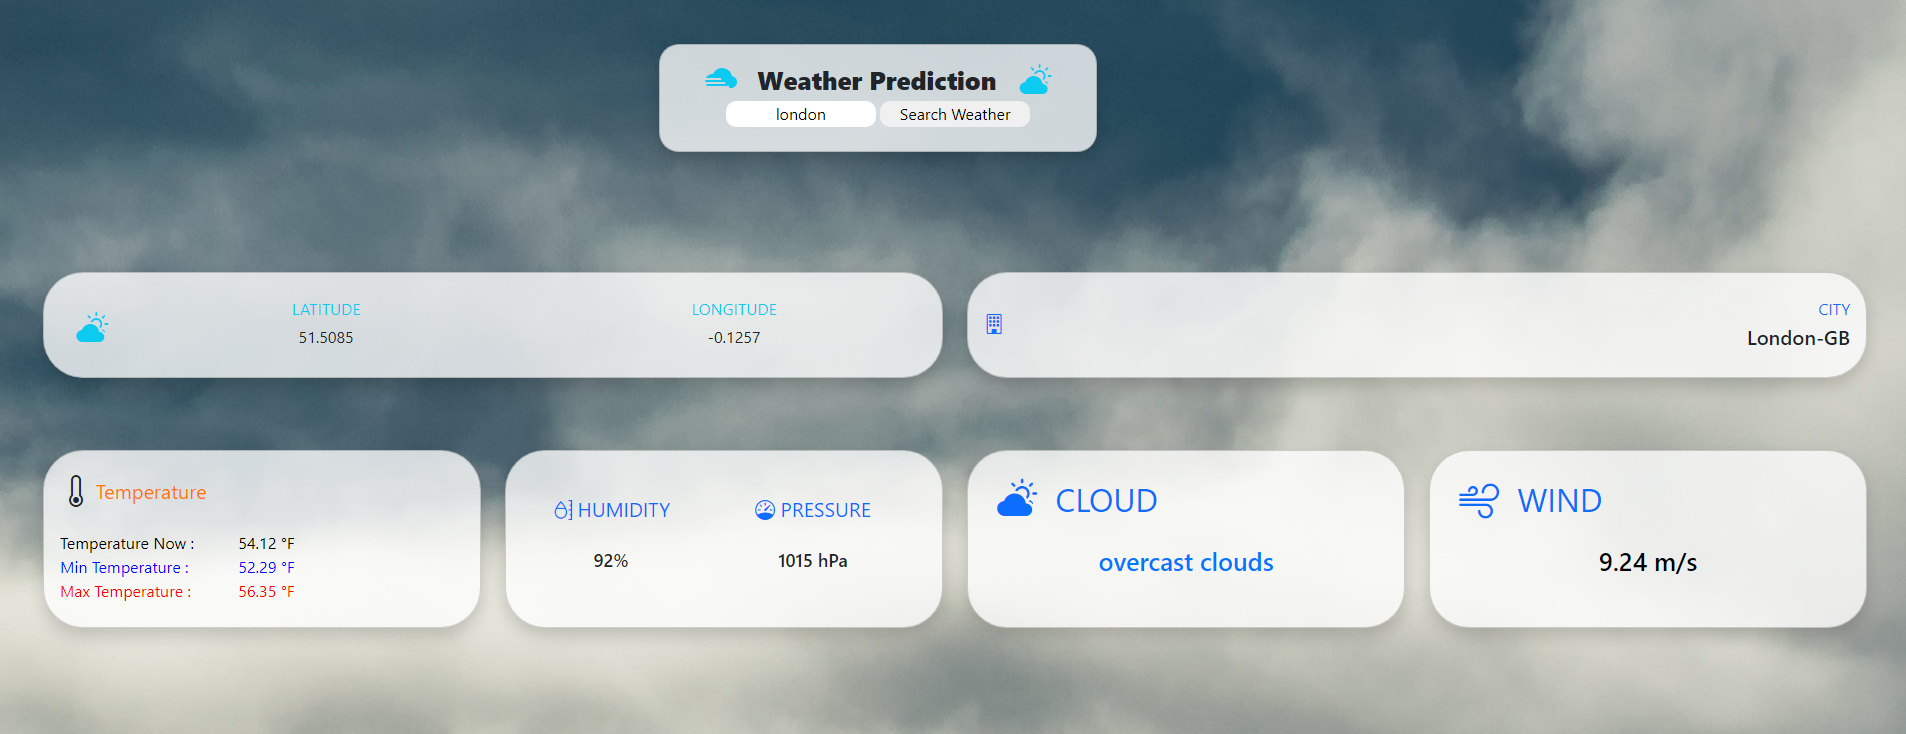
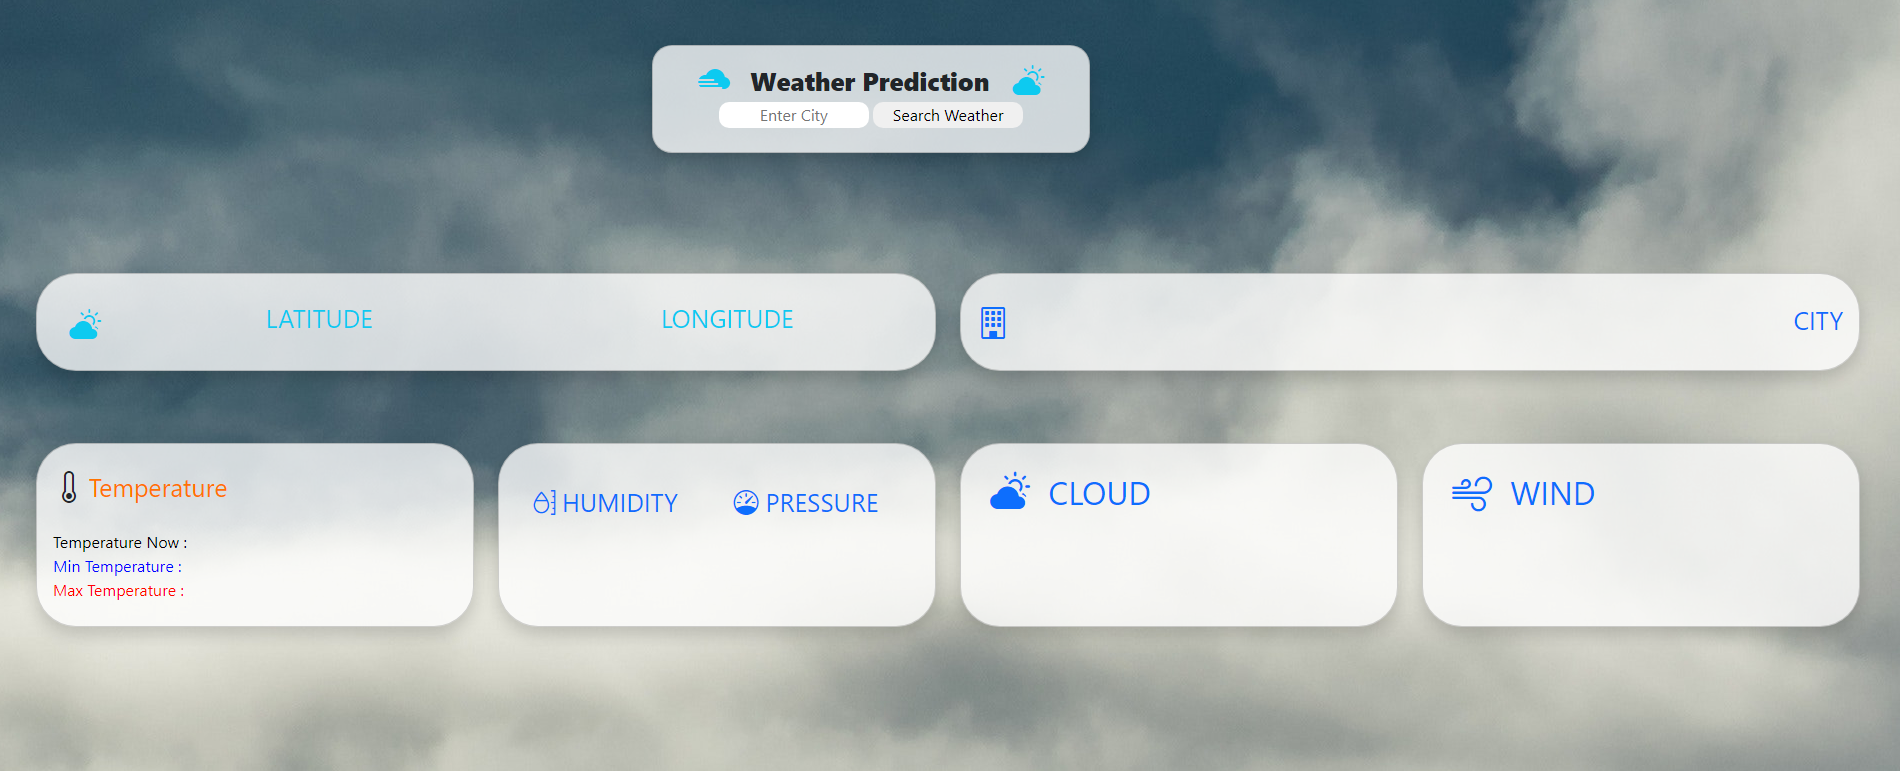
Fix Problem

diff --git a/index.html b/index.html
@@ -43,8 +43,8 @@
                             </div>
                             <div class="col text-end">
                                 <div class="row align-items-center">
-                                    <div class="col font-weight-bold text-info text-uppercase mb-1" style="text-align: center;">Latitude</div>
-                                    <div class="col font-weight-bold text-info text-uppercase mb-1" style="text-align: center;">Longitude</div>
+                                    <div class="col font-weight-bold text-info text-uppercase mb-1" style="text-align: center; font-size: 25px;">Latitude</div>
+                                    <div class="col font-weight-bold text-info text-uppercase mb-1" style="text-align: center; font-size: 25px;">Longitude</div>
                                 </div>
                                 <div class="row no-gutters align-items-center">
                                     <div class="col font-weight-bold text-uppercase mb-1" style="text-align: center;" id="lat"></div>
@@ -61,10 +61,10 @@
                     <div class="card-body">
                         <div class="row no-gutters align-items-center">
                             <div class="col p-10">
-                                <i class="bi bi-building fs-5 text-primary pe-3"></i>
+                                <i class="bi bi-building fs-2 text-primary pe-3"></i>
                             </div>
                             <div class="col text-end">
-                                <div class="text-xs font-weight-bold text-primary text-uppercase mb-1">
+                                <div class="text-xs font-weight-bold text-primary text-uppercase mb-1" style="font-size: 25px;">
                                     City</div>
                                 <div class="h5 mb-0 font-weight-bold text-gray-800" id="kota"></div>
                             </div>
@@ -80,7 +80,7 @@
                     <div class="card-body">
                         <div class="row no-gutters align-items-center">
                             <i class=" col-1 bi bi-thermometer fs-2"></i>
-                            <div class="col" ><a style="color: rgb(255, 115, 0); text-align: left; font-size: 20px;">Temperature</a></div>
+                            <div class="col" ><a style="color: rgb(255, 115, 0); text-align: left; font-size: 20px; font-size: 25px;">Temperature</a></div>
                         </div>
                         <br>
                         <div class="row no-gutters align-items-center">
@@ -103,8 +103,8 @@
                     <div class="card-body">
                         <div class="row no-gutters align-items-center">
                             <div class="row align-items-center">
-                                <div class="col font-weight-bold text-primary text-uppercase mb-1 bi bi-moisture" style="text-align: center; font-size: 20px;">   Humidity</div>
-                                <div class="col font-weight-bold text-primary text-uppercase mb-1 bi bi-speedometer" style="text-align: center; font-size: 20px;">    Pressure</div> 
+                                <div class="col font-weight-bold text-primary text-uppercase mb-1 bi bi-moisture" style="text-align: center; font-size: 25px; ">   Humidity</div>
+                                <div class="col font-weight-bold text-primary text-uppercase mb-1 bi bi-speedometer" style="text-align: center; font-size: 25px;">    Pressure</div> 
                             </div>
                             <br><br><br>
                             <div class="row no-gutters align-items-center">
